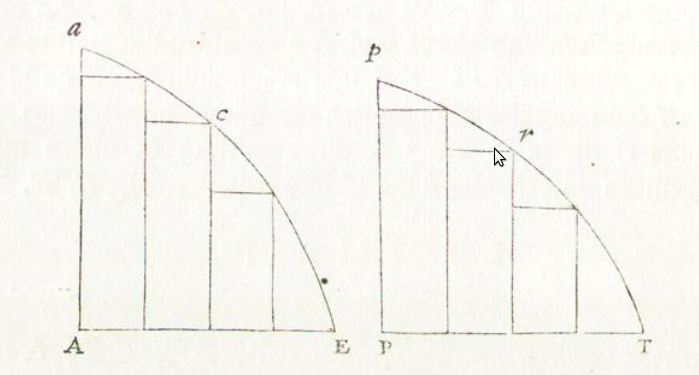
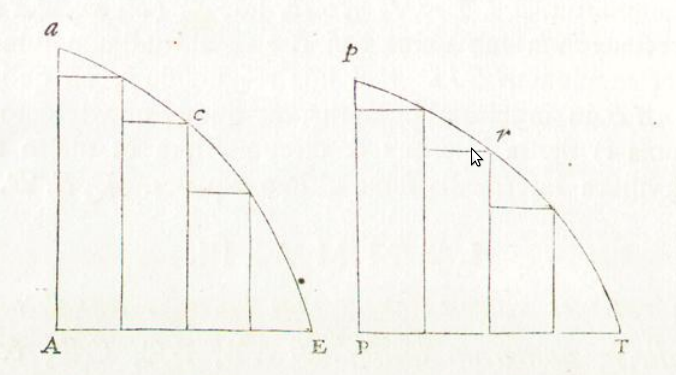
L4: Expand slider width like original L4
L4 Expand the slider width to make use of the available space, like the original L4...
-Adjusted slider width for L4 as specified
-To center the slider on the figures, cropped diagram background image (removed a small bit on the left side) and adjusted the figure positions (to ensure they line up with the adjusted diagram image).  Otherwise the slider was centered on the background image, but not the figures because they were offset a bit from the center, which looked strange.
-Adjusted width in "slider.css" so that slider fills entire width of parent div.  Also adjusted width used by L2/3 to calculate that div, to ensure slider functionality and width stay the same as before for those models.
-Fixed issue where the slider couldn't get dragged for L4 in mobile mode (see notes in code for more details).

diff --git a/src/base/resize8slide/finish-resize8upcreate.js b/src/base/resize8slide/finish-resize8upcreate.js
@@ -306,15 +306,6 @@
             var simSceneW = proposedRightW; // bgImgOffset * 2 + bgImgW;
             var svgSceneW = simSceneW;
         }
-
-        if( fconf.sappId.indexOf('lemma2') === 0 || fconf.sappId === 'lemma3' ||
-            fconf.sappId === 'lemma4') {
-            sliderGroup$
-                .css( 'top', svgSceneH.toFixed() + 'px' )
-                .css( 'width', '300px' ) //todm patch
-                .css( 'left', (( simSceneW - 300 ) / 2 ).toFixed() + 'px' )
-                ;
-        }
         //===============================================
         // \\// phase 4. allocates widths and heights
         //===============================================
@@ -355,6 +346,27 @@
         //===============================================
         // //\\ phase 5. finalizes widths and heights
         //===============================================
+        //If needed this could be updated/replaced with the generic part below
+        if(fconf.sappId.indexOf('lemma2') === 0 || fconf.sappId === 'lemma3') {
+            sliderGroup$
+                .css( 'top', svgSceneH.toFixed() + 'px' )
+                .css( 'width', '120px' ) //todm patch
+                .css( 'left', (( simSceneW - 120 ) / 2 ).toFixed() + 'px' )
+                ;
+        }
+        //Placed after "exports sizes" section to ensure slider width
+        //calculation has updated values.
+        if (sconf.BASES_SLIDER_WIDTH_FACTOR != null) {
+            const sliderWidth = calculateSliderWidth();
+            sliderGroup$
+                .css( 'top',
+                    (bgImgW * stdMod.simSceSvg_narrowestAsp).toFixed() + 'px')
+                .css( 'width', `${sliderWidth}px` )
+                .css( 'left', ((simSceneW - sliderWidth) / 2).toFixed() + 'px')
+                ;
+        }
+
+
         makes_svgViewBox();
         doesTopContainersSizing();
 
@@ -403,13 +415,34 @@
         stdMod.svgVB_H      = sconf.innerMediaHeight;
         stdMod.svgVB_offsX  = 0;
 
-        if( fconf.sappId.indexOf('lemma2') === 0 || fconf.sappId === 'lemma3' ||
-            fconf.sappId === 'lemma4' ) {
+
+        //If needed this could be updated/replaced with the generic part below
+        if(fconf.sappId.indexOf('lemma2') === 0 || fconf.sappId === 'lemma3') {
             sDomN.sliderGroup$
                 .css( 'display', 'inline-block' )
                 .css( 'position', 'static' )
                 ;
         }
+        if (sconf.BASES_SLIDER_WIDTH_FACTOR != null) {
+            //Ensure the width gets updated as the window changes size
+            const sliderWidth = calculateSliderWidth();
+            sDomN.sliderGroup$
+                .css( 'display', 'inline-block' )
+                //'relative' rather than 'static' so the z-index is enabled for
+                //slider-group in mobile mode.  Otherwise an issue can occur
+                //where the slider can't be dragged in mobile mode, eg. for L4.
+                //When "overlay original diagrams" mode is disabled (the
+                //default), and an empty image gets displayed instead of
+                //the background image, and it's position and dimensions are
+                //such that it can be on top of the slider.
+                .css( 'position', 'relative' )
+                .css( 'top', '0px' )
+                .css( 'left', '0px' )
+                .css( 'width', `${sliderWidth}px` );
+                ;
+        }
+
+
         makes_svgViewBox();
         doesTopContainersSizing();
         wrkwin.buildsMobile({});
@@ -457,6 +490,15 @@
     function gets_LEGEND_FIXED_FRACTION()
     {
         return false;
+    }
+
+    function calculateSliderWidth() {
+        //Uses bgImgW rather than eg. simSceneW.  This ensures the slider
+        //always lines up with the same parts of the figures.  If simSceneW is
+        //used, it doesn't take into account additional padding that's added
+        //to the model area sometimes.  This leads to the width being wrong
+        //sometimes.
+        return stdMod.bgImgW * sconf.BASES_SLIDER_WIDTH_FACTOR;
     }
 }) ();
 

diff --git a/contents/lemma4/js/event-handlers.js b/contents/lemma4/js/event-handlers.js
@@ -76,26 +76,35 @@
             //--------------------------------------------------------
             // //\\ attaches ownself to resize manager
             //--------------------------------------------------------
-            var hazR = haz( fmethods, 'resizeHappened' );
-            fmethods.resizeHappened  = hazR ?
-                    () => {
-                        hazR();
-                        doFitScene();
-                    }
-                :
-                    doFitScene
-                ;
+            //TEMP Should only be needed by L2/3, may end up getting removed
+            //if code below is combined.
+            // var hazR = haz( fmethods, 'resizeHappened' );
+            // fmethods.resizeHappened  = hazR ?
+            //         () => {
+            //             hazR();
+            //             doFitScene();
+            //         }
+            //     :
+            //         doFitScene
+            //     ;
             //--------------------------------------------------------
             // \\// attaches ownself to resize manager
             //--------------------------------------------------------
-            return;
+            //return;
 
-            function doFitScene()
-            {
-                sDomN.sliderGroup$.css( 'top',
-                    ( stdMod.bgImgW * stdMod.simSceSvg_narrowestAsp ).toFixed() + 'px'
-                );
-            }
+            //TEMP Should only be needed by L2/3, may end up getting combined
+            //with generic code used by L4 in
+            //"src\base\resize8slide\finish-resize8upcreate.js".
+            //Note this top calculation was called after the code in the file
+            //mentioned above, meaning it overrode the top value set there.
+            //For the generic code used by L4, this same calculation was moved
+            //into that file.
+            // function doFitScene()
+            // {
+            //     sDomN.sliderGroup$.css( 'top',
+            //         ( stdMod.bgImgW * stdMod.simSceSvg_narrowestAsp ).toFixed() + 'px'
+            //     );
+            // }
         };
 
 

diff --git a/contents/lemma4/js/sconf.js b/contents/lemma4/js/sconf.js
@@ -26,7 +26,7 @@
 
     //Left figure
     Object.assign(dr, initDataReg({
-        xLeft  : 80,
+        xLeft  : 57,
         width  : 258,
         height : 282,
         basePtDraggersEnabled : true,
@@ -42,7 +42,7 @@
 
     //Right figure
     Object.assign(dr2, initDataReg({
-        xLeft  : 383,
+        xLeft  : 359,
         width  : 258,
         height : 252,
         basePtDraggersEnabled : false,
@@ -170,8 +170,8 @@
         //----------------------------------
         // //\\ original material parameters
         //----------------------------------
-        var pictureWidth = 699; //282;
-        var pictureHeight = 375;//290;
+        var pictureWidth = 676;
+        var pictureHeight = 375;
         var modorInPicX = 31.5;
         var modorInPicY = 29;
         //.set it from graph editor
@@ -193,6 +193,15 @@
         sconf.mediaMoverPointDisabled = !false;
         sconf.skipGenDragList = !false; //false is for media mover,
         sconf.enableTools     = !true;
+
+        //Used to calculate slider width (left side of left figure, to right
+        //side of right figure).
+        const xSliderL = dr.ctrlPts.positions[0].x;
+        const positionsR = dr2.ctrlPts.positions;
+        const xSliderR = positionsR[positionsR.length - 1].x;
+        const BASES_SLIDER_WIDTH_FACTOR = (xSliderR - xSliderL) / pictureWidth;
+
+
 
         //predefined-topic colors [R, G, B, Adefault, A-mouse-highlighted]
         const {
@@ -300,6 +309,8 @@
             //----------------------------------
             // //\\ model-view parameters
             //----------------------------------
+            BASES_SLIDER_WIDTH_FACTOR,
+
             //todm ... this still makes?? a gap between svg and slider
             SLIDERS_LEGEND_HEIGHT : SLIDERS_LEGEND_HEIGHT,
             MONITOR_Y_FLIP      : MONITOR_Y_FLIP,

diff --git a/src/base/css/pages/slider.css b/src/base/css/pages/slider.css
@@ -70,7 +70,7 @@ input[type=range]::-ms-thumb {
 }
   
 input[type=range] {
-    width: 40%;
+    width: 100%;
     height: 2px;
     cursor: pointer;
     background: var(--color-main);
